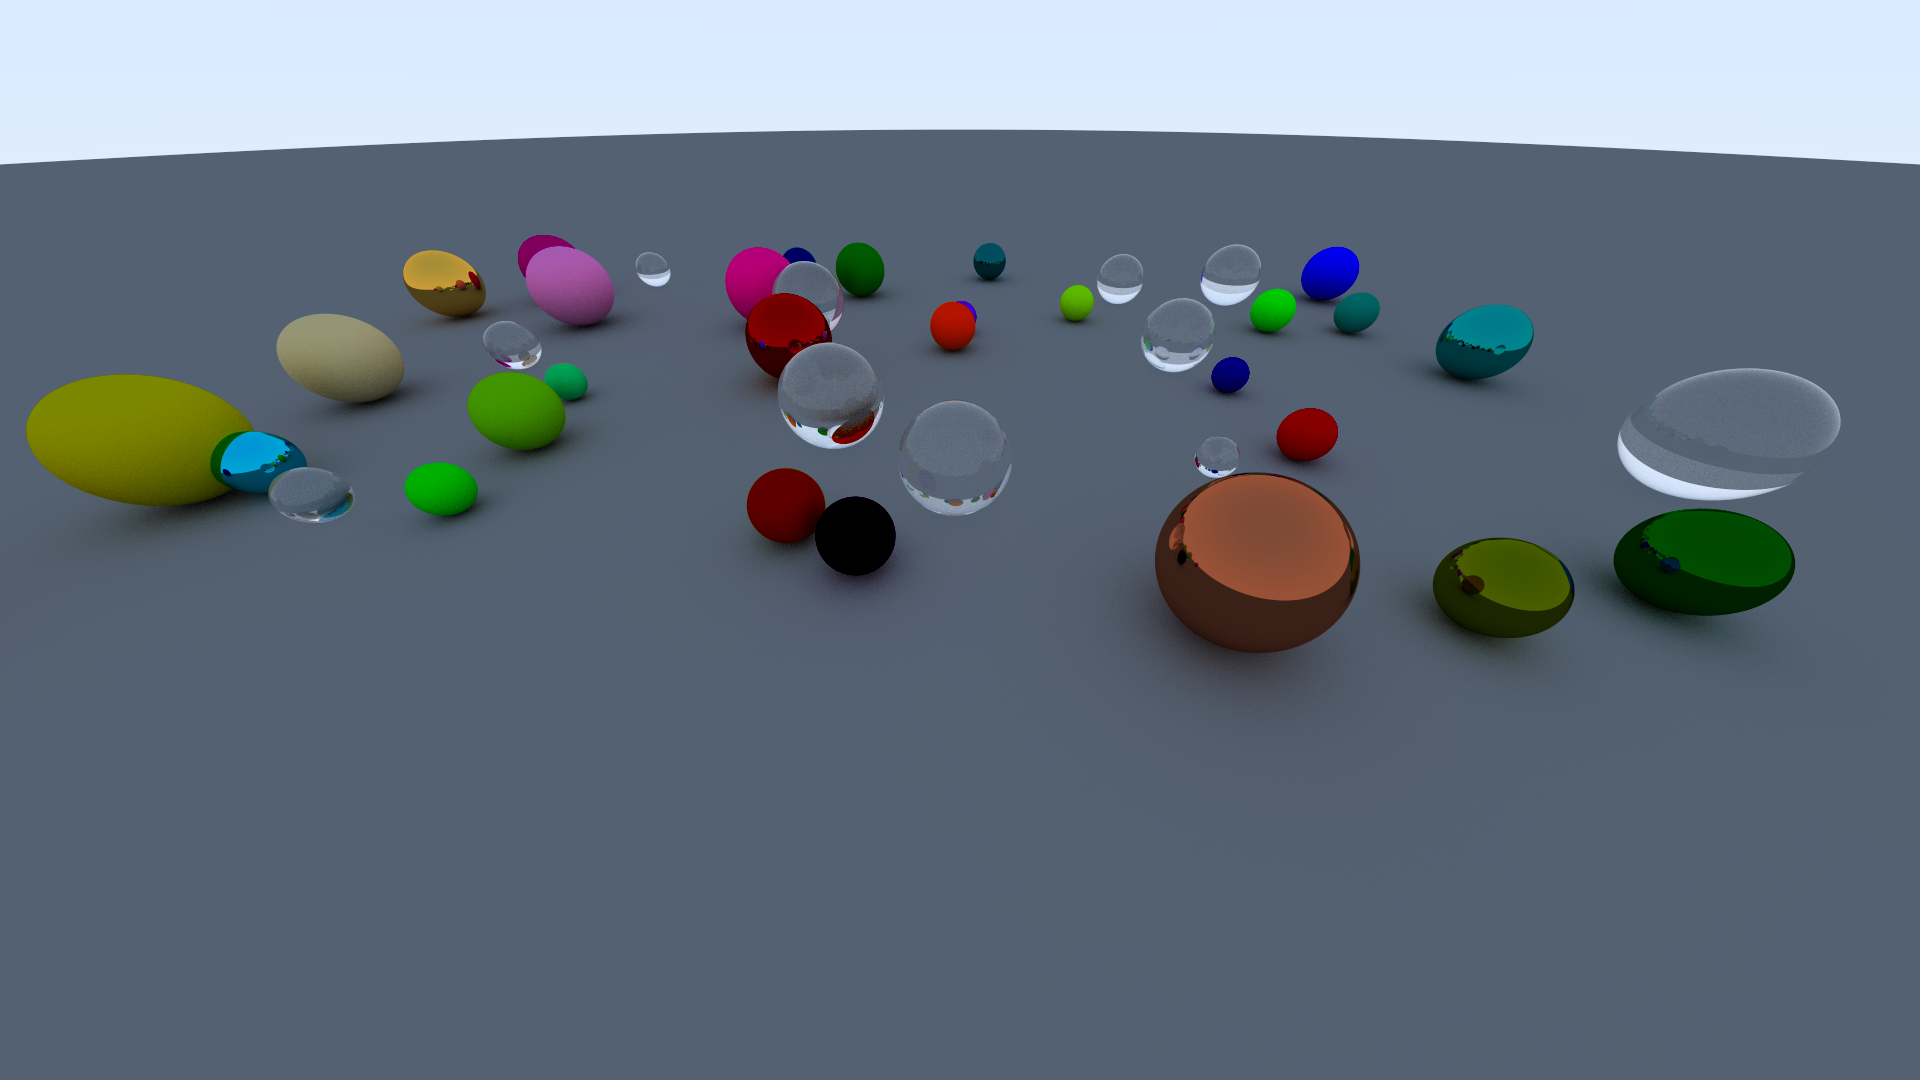
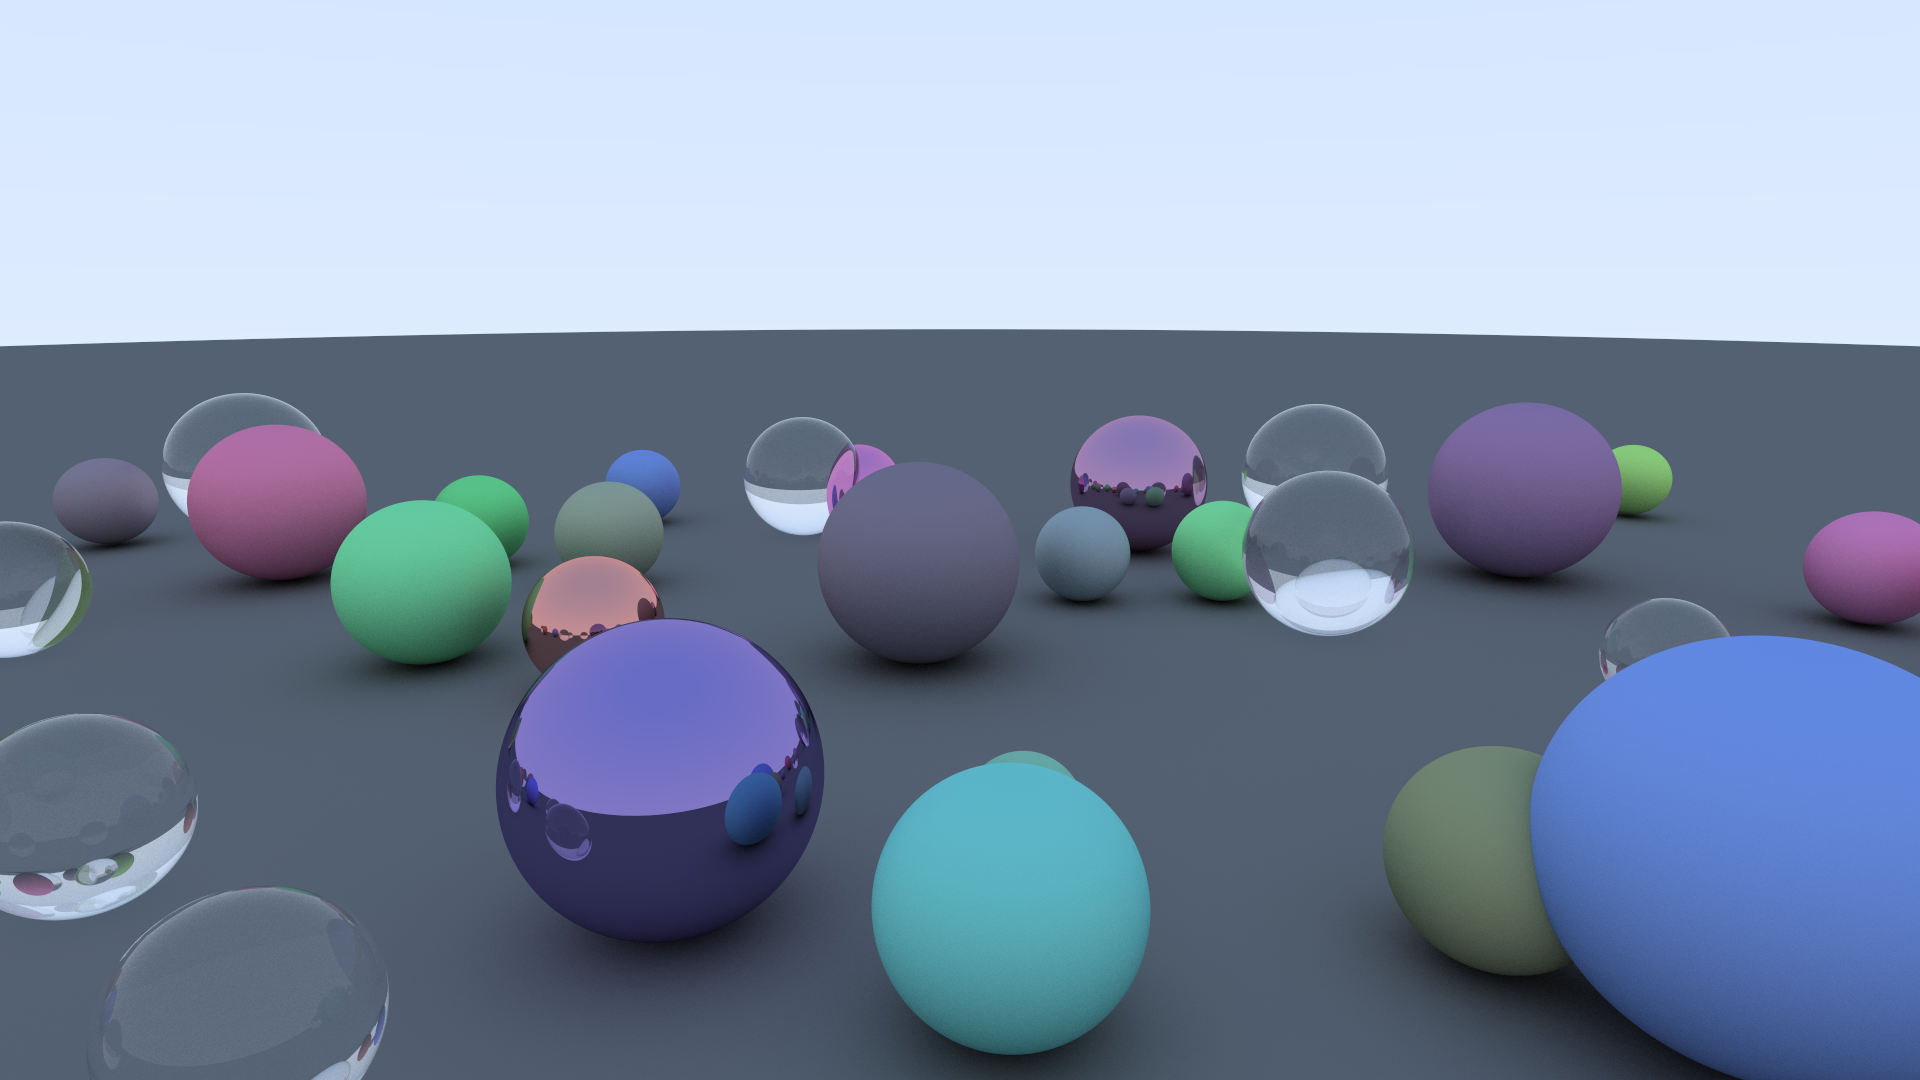
docs: update demo image

diff --git a/src/main.rs b/src/main.rs
@@ -5,7 +5,6 @@ mod scene;
 mod vector;
 
 use rand::Rng;
-use std::rc::Rc;
 
 use image_writer::*;
 use scene::*;
@@ -22,11 +21,11 @@ use crate::scene::{
 fn main() {
     let main_camera = camera::Camera::new(
         1920,
-        90.0,
+        50.0,
         16.0 / 9.0,
-        Vector3d::new([0.0, 1.5, -1.3]),
-        Vector3d::new([0.0, 0.4, 0.0]),
-        256,
+        Vector3d::new([0.0, 1.2, -1.3]),
+        Vector3d::new([0.0, 0.9, 0.0]),
+        512,
         64,
         0.0,
         1.0,
@@ -34,7 +33,7 @@ fn main() {
 
     let mut main_scene = Scene::new();
 
-    let diffuse_ground = Box::new(DiffuseMaterial::new(Color::new([0.3, 0.3, 0.3])));
+    let diffuse_ground = Box::new(DiffuseMaterial::new(Color::new([0.2, 0.2, 0.2])));
 
     main_scene.add_object(Box::new(Sphere::new(
         Vector3d::new([0.0, -1000.0, 1.0]),
